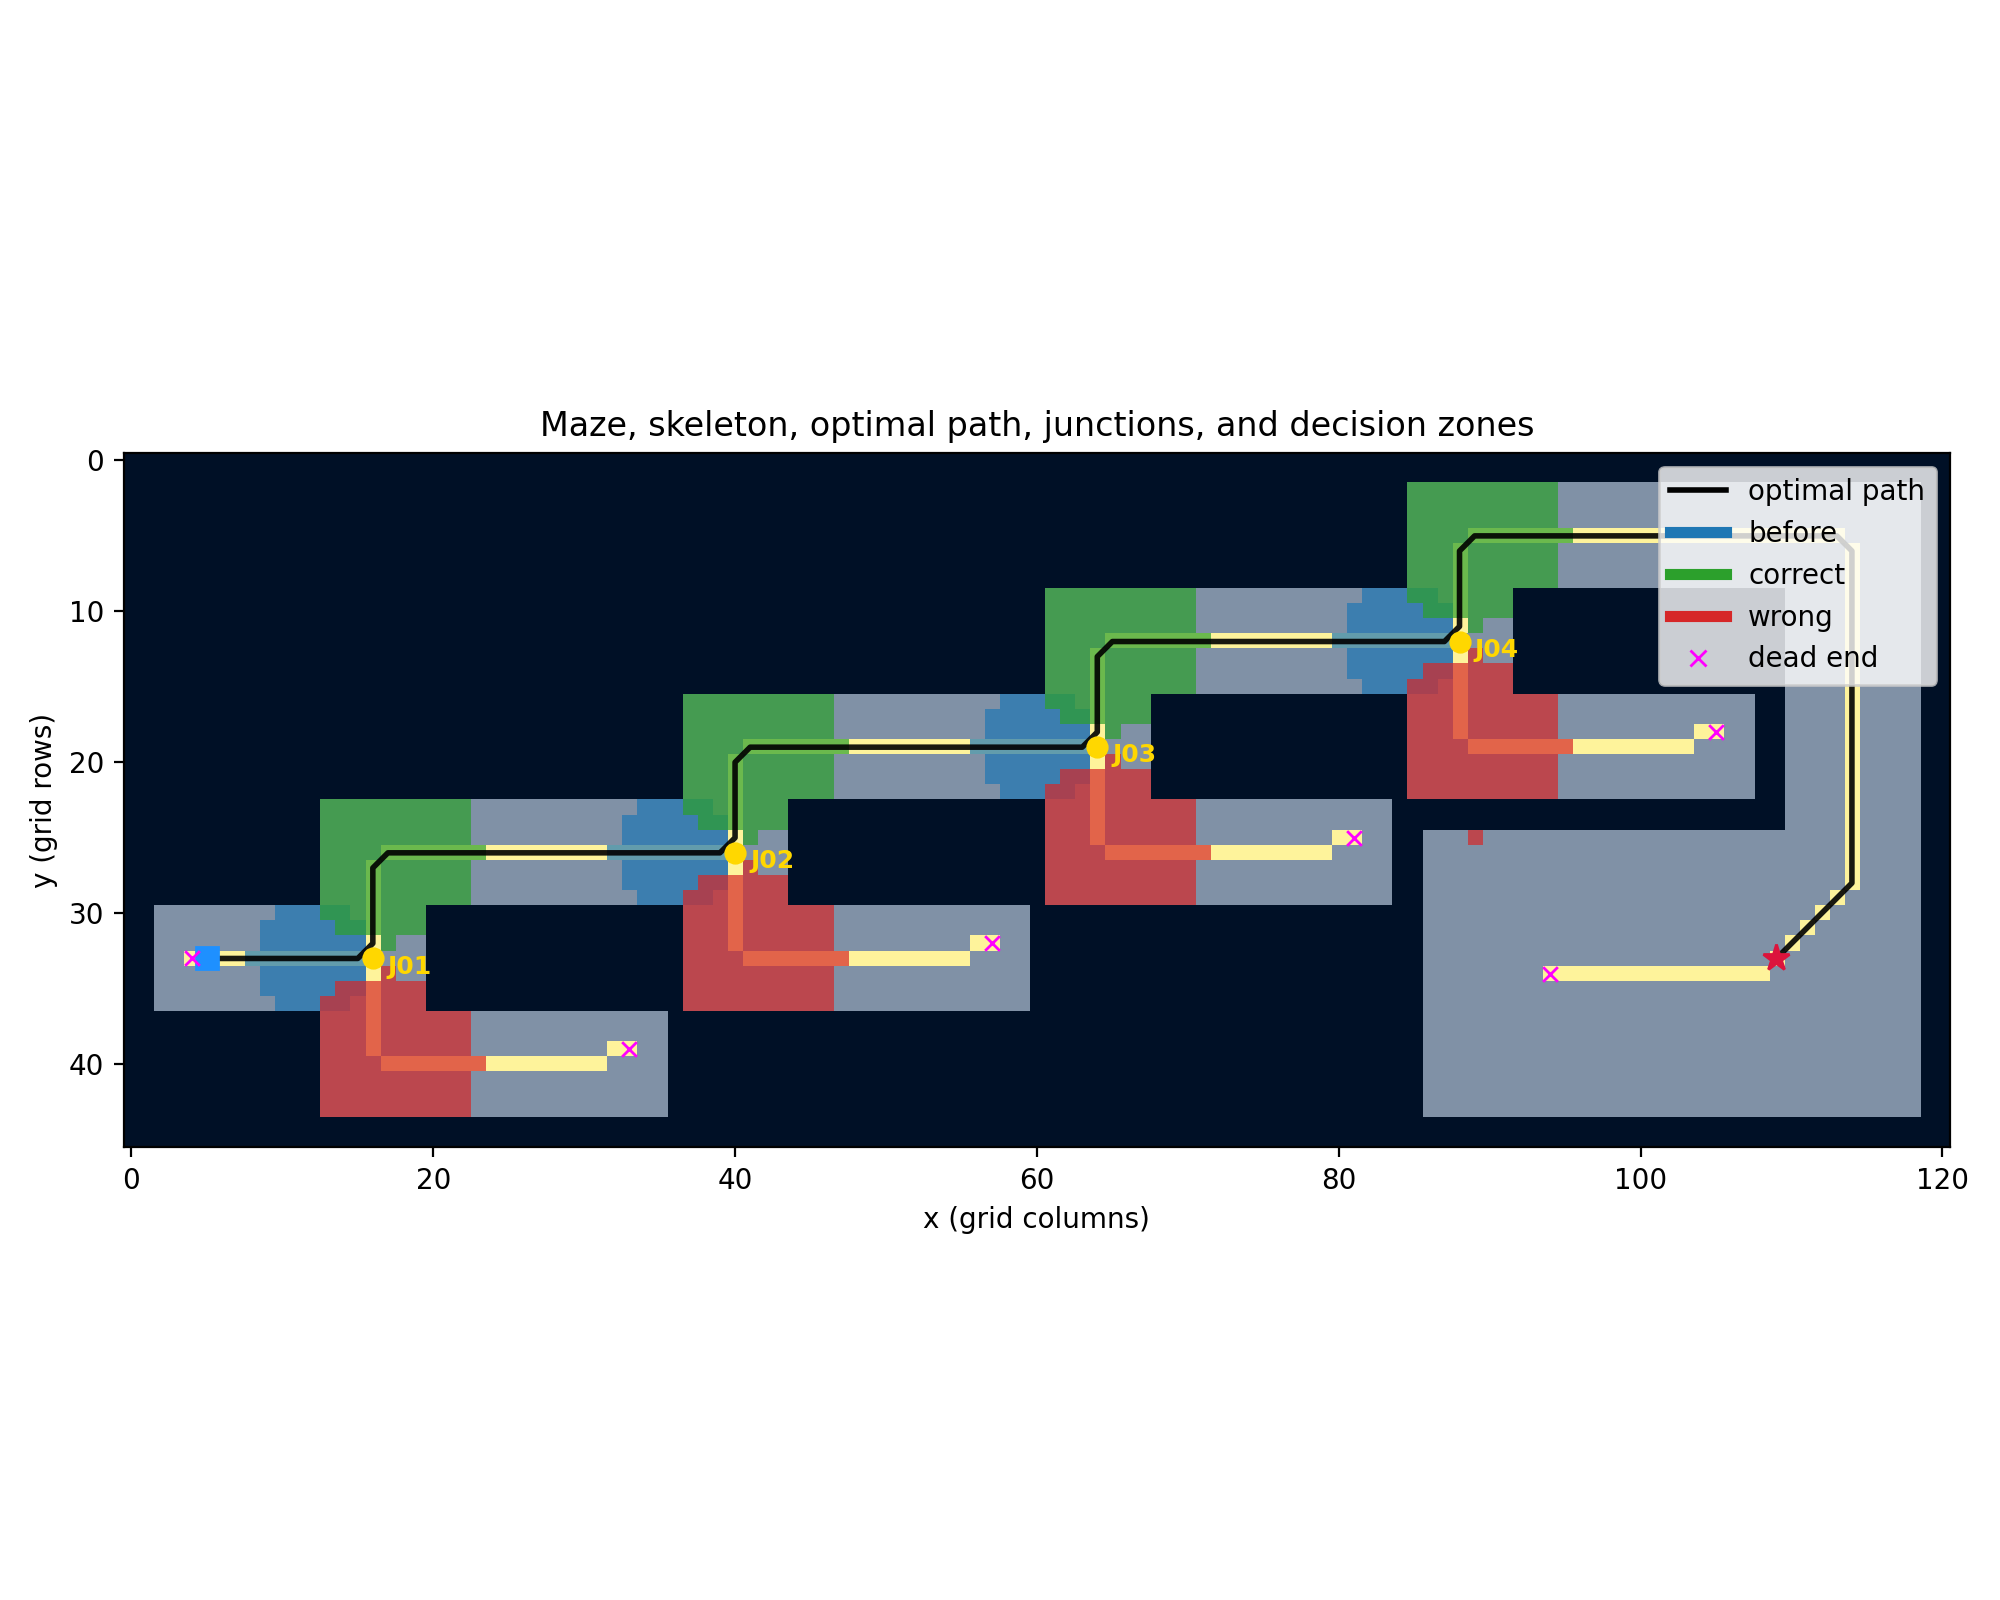
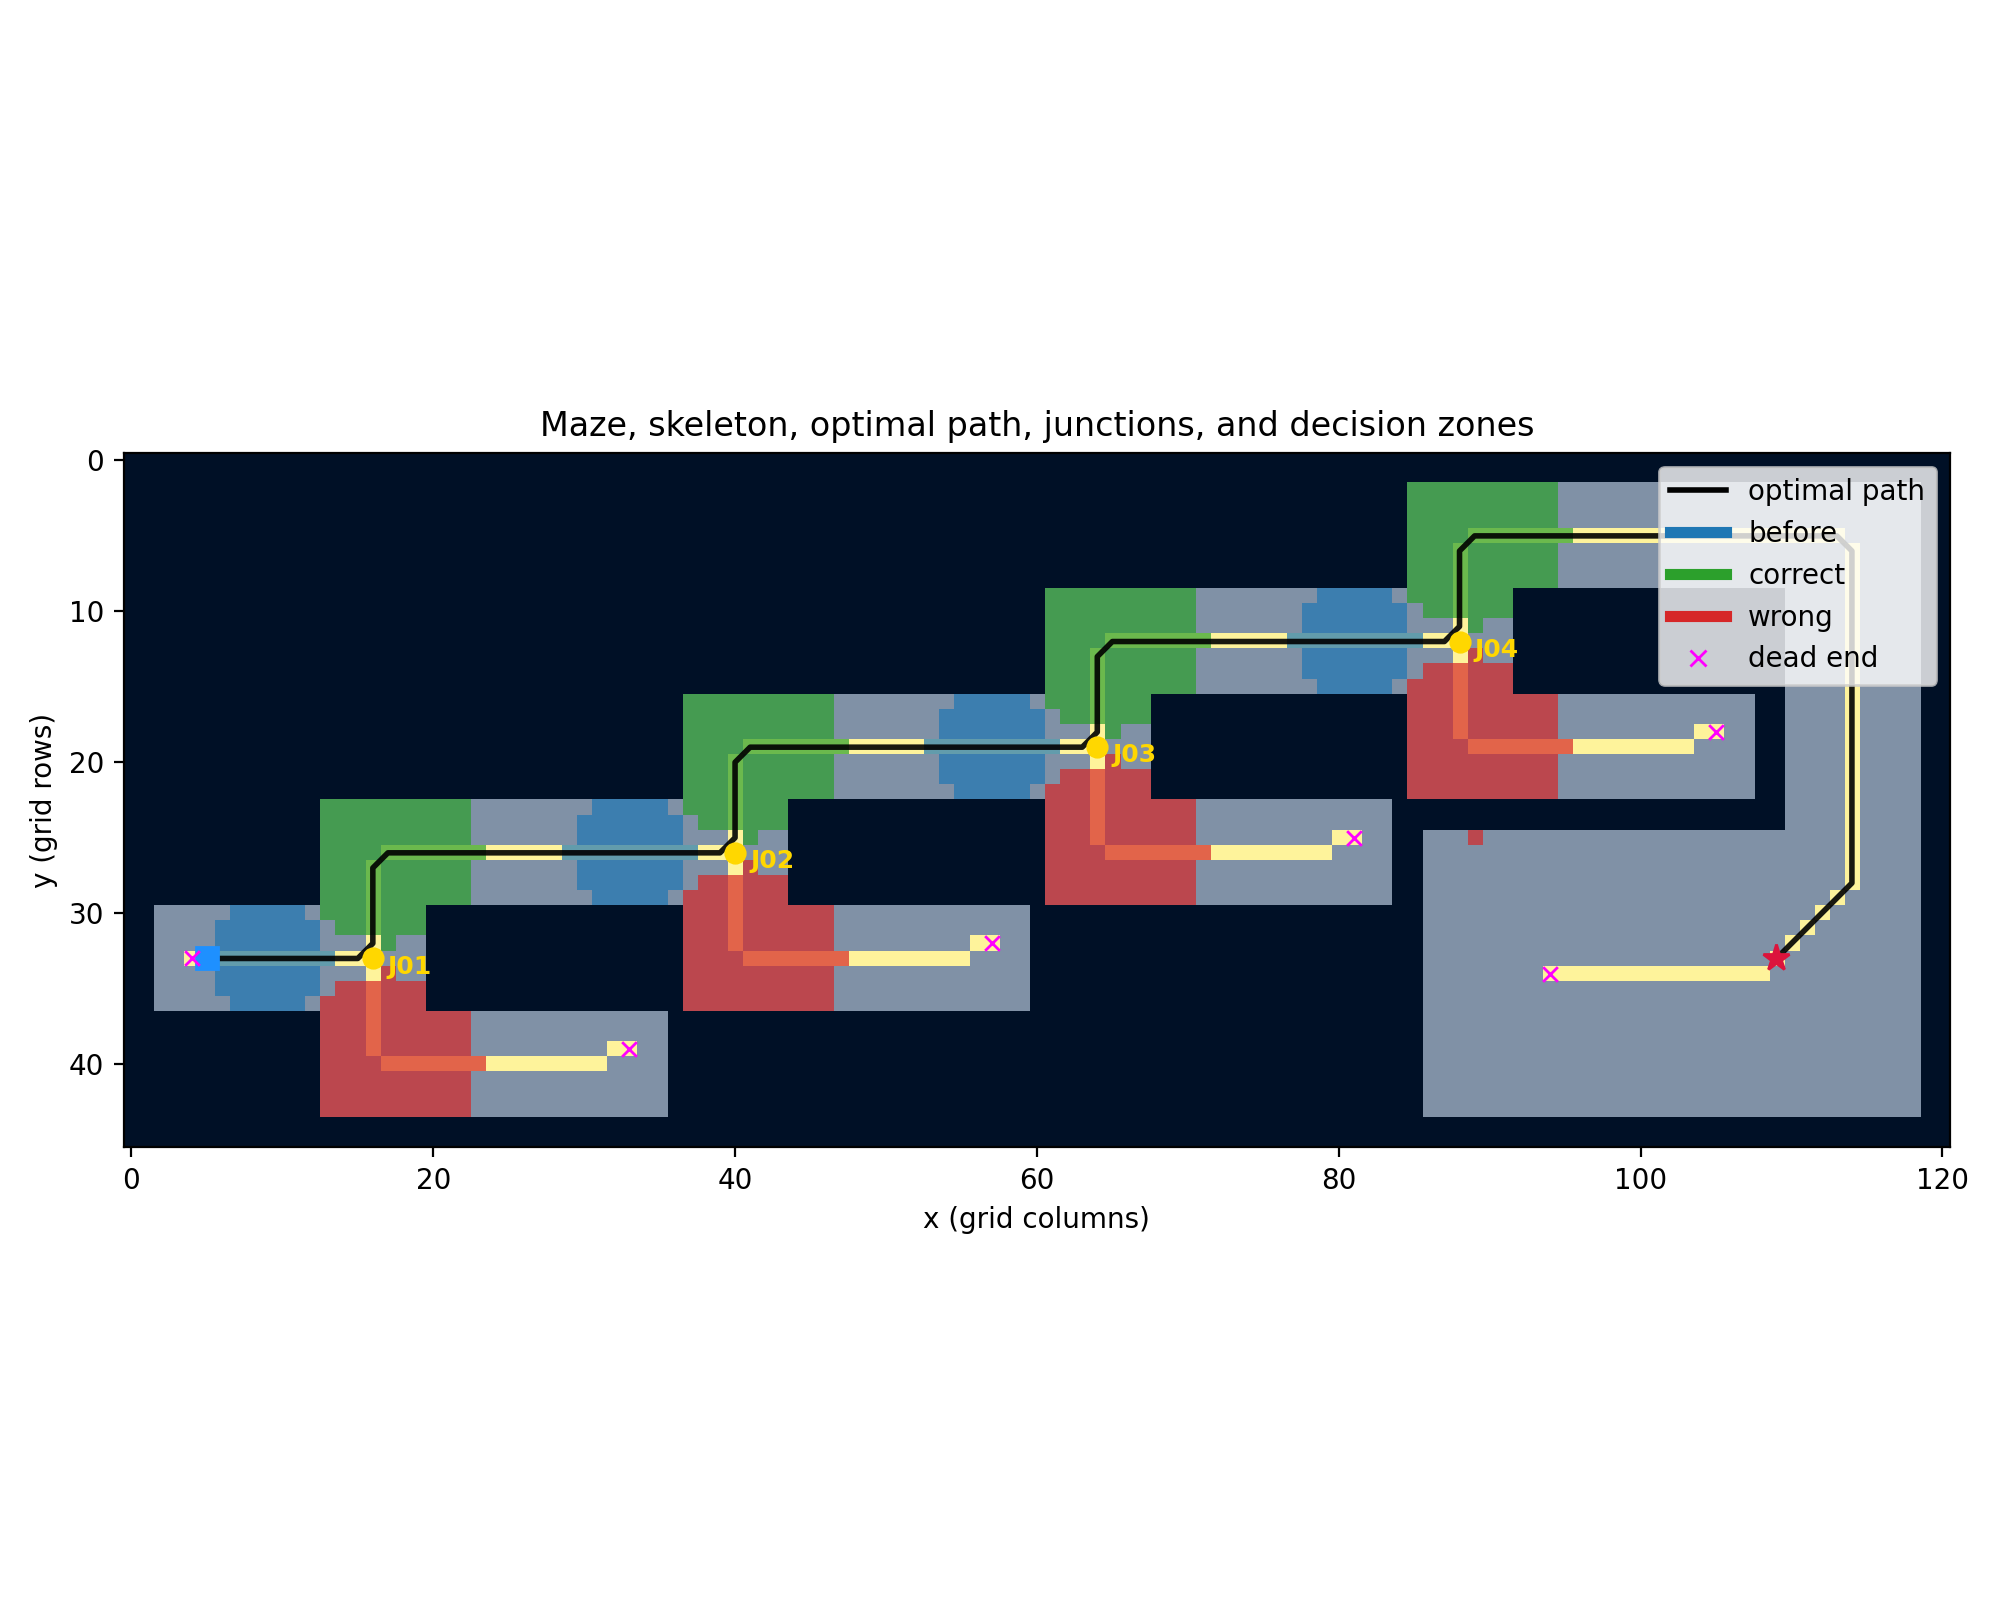
experiments testrun.toml for a junction testrun

diff --git a/HANDOFF.md b/HANDOFF.md
@@ -262,3 +262,17 @@
   - `.venv/bin/python -m unittest tests.test_junction_tracker_resume`
 - Known issues / TODO for later tasks:
   - None.
+
+## T9 Efficiency check (and fallback only if needed)
+- Files changed:
+  - `HANDOFF.md`
+- New/changed interfaces (signatures, file formats, CLI flags):
+  - None.
+- Behavior changes vs. before (esp. physics/RNG):
+  - No change needed: the tracker fallback was not added because its measured cost is below the 5% threshold.
+  - Profile at 40 particles, 20 junctions, and a 100x100 grid (7 rounds, 200 calls/round, median): tracker 71.743 us/step; `interaction_force` 7630.327 us/step; `wall_force` 44241.058 us/step.
+  - Tracker cost relative to `interaction_force`: 0.94%; relative to `wall_force`: 0.16%.
+- How to test (exact command):
+  - `python -m compileall -q junction_tracking.py list_of_functions.py`
+- Known issues / TODO for later tasks:
+  - None. The tracker remained inactive for the benchmark logic and no heading/chemical-force fallback logging was implemented.
